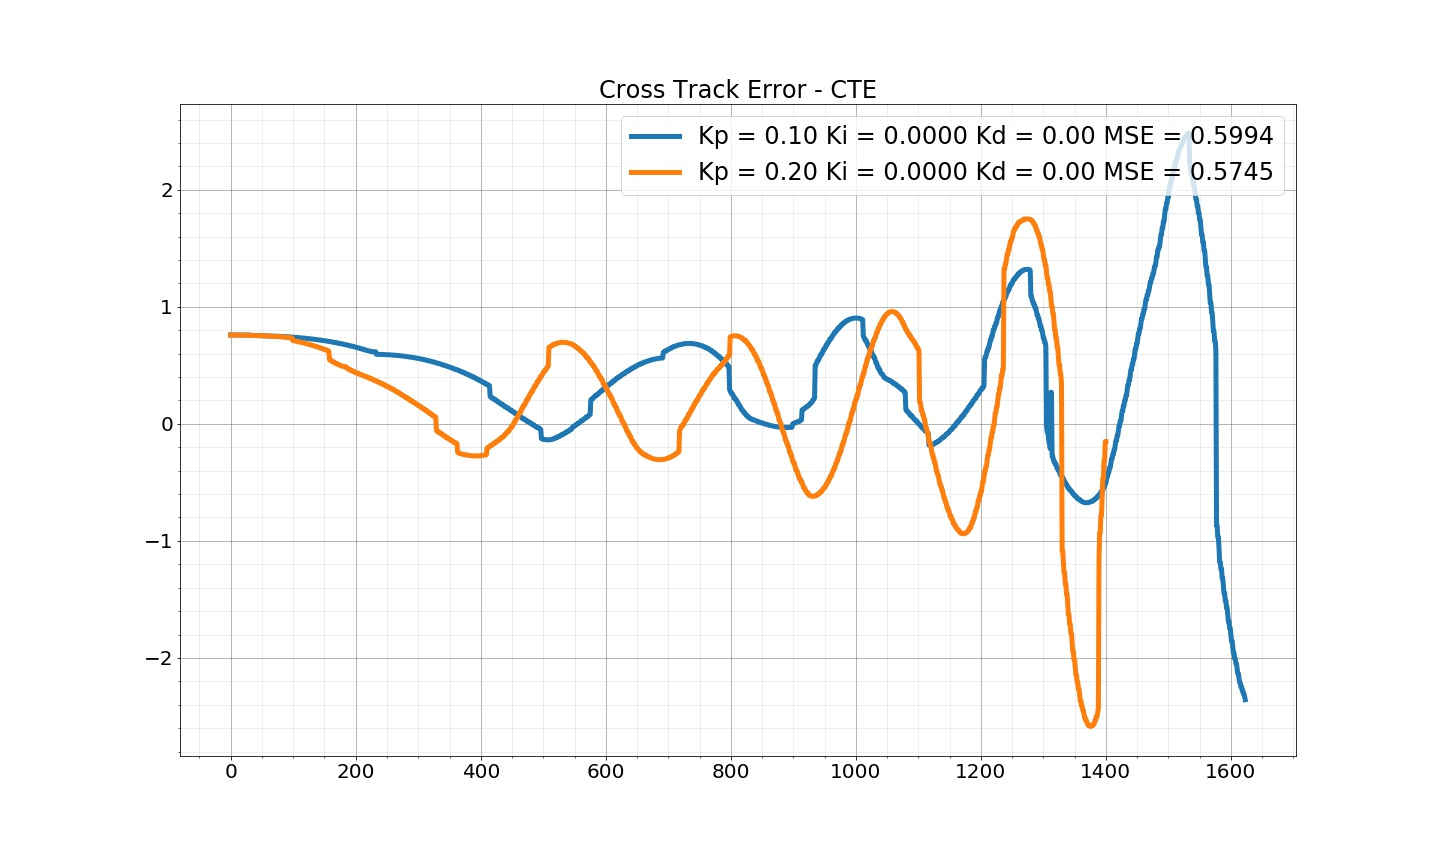
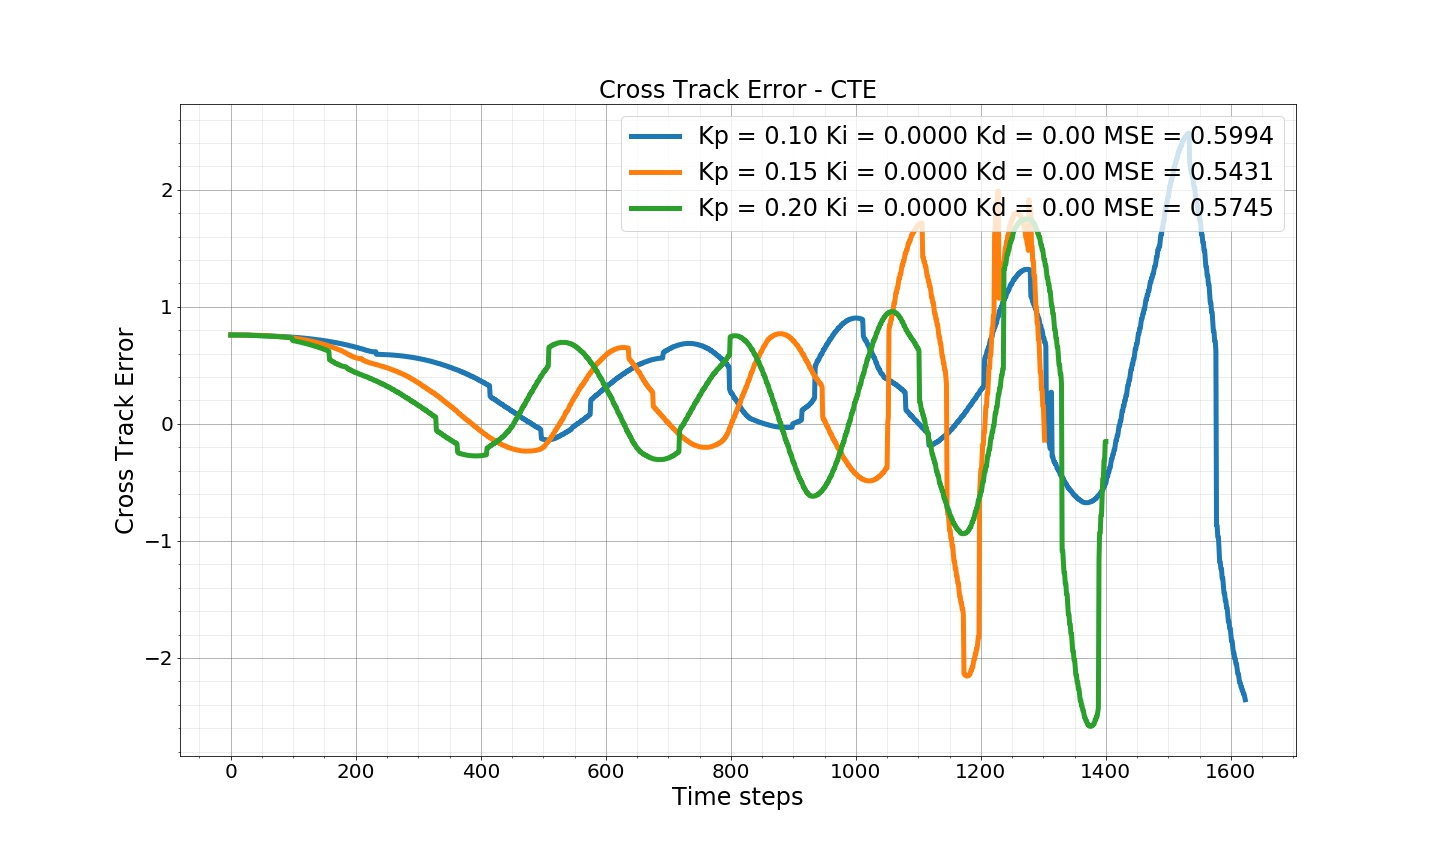
included x and y axis labels

Changed region(s): [[0.1562, 0.1875, 0.9062, 0.8438], [0.0625, 0.375, 0.0938, 0.625], [0.4688, 0.9062, 0.5625, 0.9375]]

diff --git a/src/plotter.py b/src/plotter.py
@@ -34,8 +34,12 @@ def plot_cte_from_multiple_files(data_files):
     for i in range(index):
         #prepare the legends
         name = data_files[i][:-4].split('_')
-        label = 'Kp = {:.2f} Ki = {:.4f} Kd = {:.2f} MSE = {:.4f}'.format(float(name[1]),float(name[2]),float(name[3]), mse[i]) #Kp = {:4.2f} Ki = {:6.5f} Kd = {:4.2f} MSE: {:4.3}'.format(i)
+        label = 'Kp = {:.2f} Ki = {:.5f} Kd = {:.2f} MSE = {:.4f}'.format(float(name[1]),float(name[2]),float(name[3]), mse[i]) #Kp = {:4.2f} Ki = {:6.5f} Kd = {:4.2f} MSE: {:4.3}'.format(i)
         plt.plot (cte[i], label=label, linewidth=5)
+    # Set the x axis label of the current axis.
+    plt.xlabel('Time steps',  fontsize = 24)
+    # Set the y axis label of the current axis.
+    plt.ylabel('Cross Track Error' , fontsize = 24)
     plt.title('Cross Track Error - CTE', fontsize = 24)
     plt.grid(b=True, which='major', color='#666666', linestyle='-', alpha=0.6)
     plt.minorticks_on()
@@ -47,22 +51,16 @@ def plot_cte_from_multiple_files(data_files):
 
 
 if __name__ == '__main__':
-
-    #data_files = ['output_0.1_0_0.txt','output_0.2_0_0.txt','output_0.08_0_0.txt',
-    #             'output_0.09_0_0.txt','output_0.11_0_0.txt','output_0.12_0_0.txt',
-    #             'output_0.13_0_0.txt', 'output_0.15_0_0.txt', 'output_0_0_0.txt']
-    #data_files = [ 'output_0.1_0_0.txt', 'output_0.2_0_0.txt' ]
-    #data_files = ['output_0.11_0_0.txt','output_0.12_0_0.txt',
-    #             'output_0.13_0_0.txt', 'output_0.15_0_0.txt' ]
-    #data_files = ['output_0.08_0_0.txt', 'output_0.09_0_0.txt', 'output_0.1_0_0.txt']
-    #data_files = ['output_0.1_0_0.1.txt','output_0.1_0_0.5.txt',
-    #             'output_0.1_0_1.0.txt', 'output_0.1_0_2.0.txt' ]
-    data_files = ['output_0.15_0.0001_3.0.txt','output_0.1_0.00001_3.0.txt',
-                 'output_0.1_0.0002_3.0.txt' ]
-    #data_files = ['output_0.1_0_2.70.txt','output_0.1_0_2.75.txt',
-    #             'output_0.1_0_2.80.txt', 'output_0.1_0_2.85.txt' ]
-    #data_files = ['output_0.1_0_2.75.txt', 'output_0.1_0.00001_2.75.txt']
-    # data_files = ['output_0.1_0.00001_2.75.txt', 'output_0.1_0.0001_2.75.txt','output_0.1_0.0002_2.75.txt']
-    #data_files = ['output_0.15_0_0.txt', 'output_0.15_0_3.0.txt', 'output_0.15_0.0001_3.0.txt']
-    # data_files = ['output_0_0_0.txt']
+    ## datafile for step 1:
+    #data_files = ['output_0_0_0.txt']
+    
+    ## datafile for step 2:
+    #data_files = ['output_0.1_0_0.txt', 'output_0.2_0_0.txt', 'output_0.15_0_0.txt']
+    
+    ## datafile for step 3:
+    #data_files = ['output_0.15_0_2.0.txt', 'output_0.15_0_2.5.txt', 'output_0.15_0_2.75.txt', 'output_0.15_0_3.0.txt']
+    
+    ## datafile for step 4:
+    data_files = ['output_0.15_0.0001_3.0.txt', 'output_0.15_0.0002_3.0.txt', 'output_0.15_0.00001_3.0.txt']
+    
     plot_cte_from_multiple_files(data_files)
